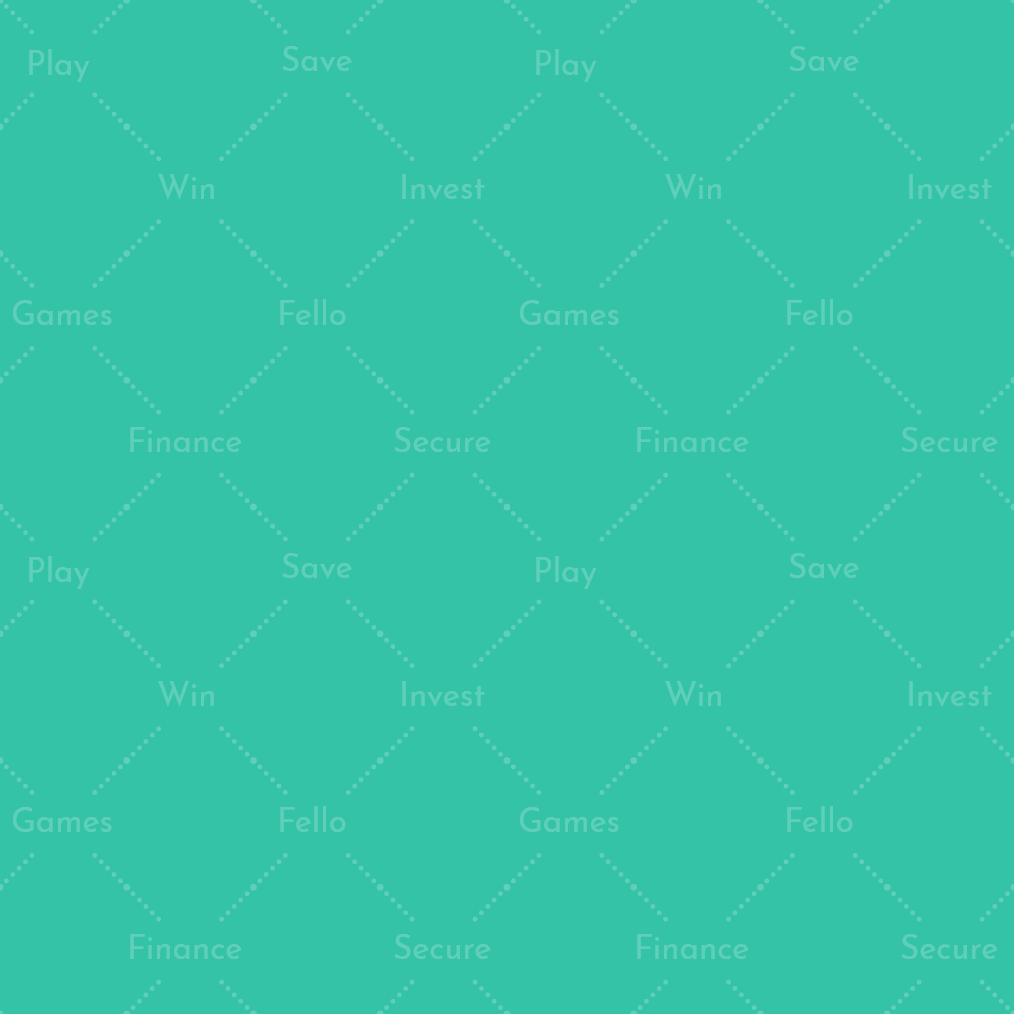
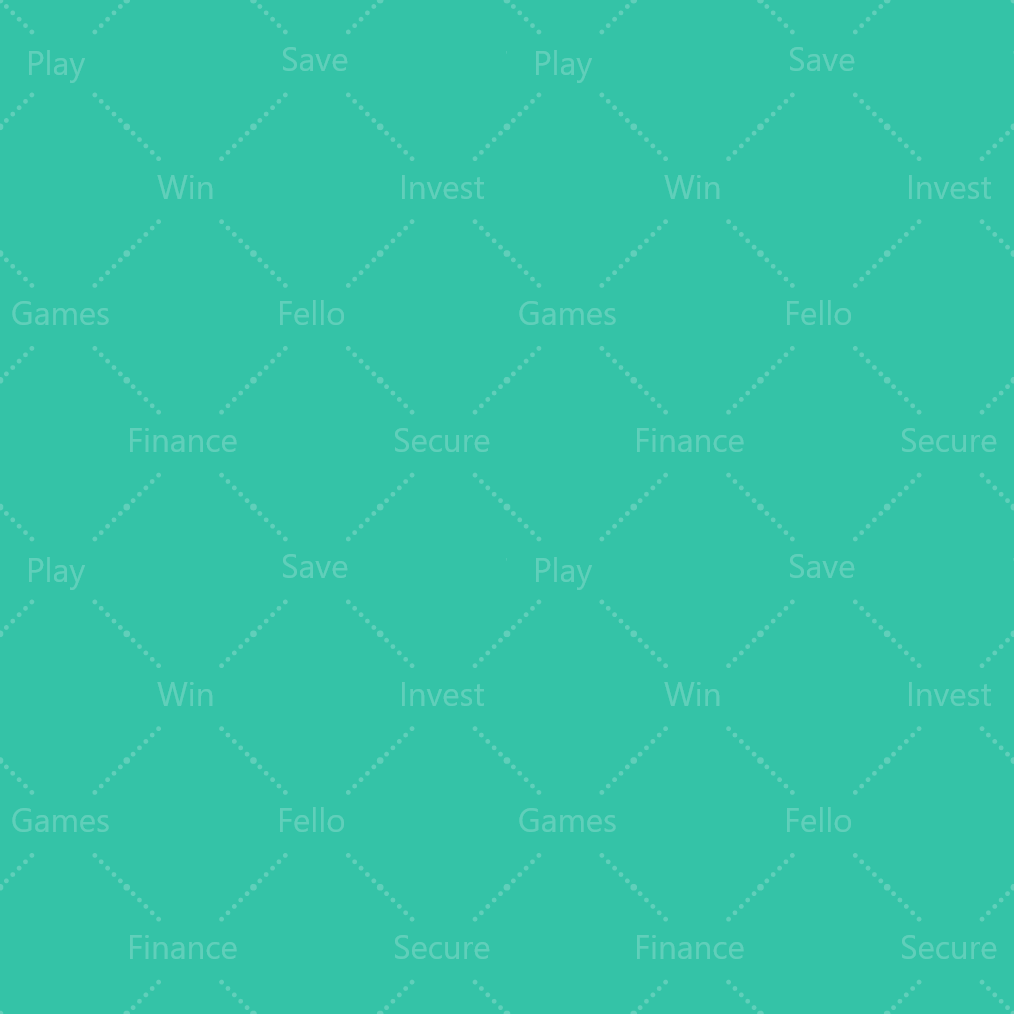
added new confetti

diff --git a/lib/ui/dialogs/Fold-Card/card.dart b/lib/ui/dialogs/Fold-Card/card.dart
@@ -117,7 +117,9 @@ class _TicketState extends State<FCard> {
         // gradient: cardGradient,
         image: DecorationImage(
             image: AssetImage("images/prize-share-bg.png"), fit: BoxFit.cover),
-        borderRadius: BorderRadius.all(Radius.circular(15)),
+        borderRadius: BorderRadius.all(
+          Radius.circular(15),
+        ),
       ),
       child: Stack(
         children: [
@@ -174,7 +176,7 @@ class _TicketState extends State<FCard> {
                 Row(
                   children: [
                     Image.asset(
-                      "images/fello_logo.png",
+                      "images/fello-dark.png",
                       width: SizeConfig.screenWidth * 0.12,
                     ),
                     Spacer(),
@@ -205,7 +207,6 @@ class _TicketState extends State<FCard> {
       height: double.infinity,
       width: double.infinity,
       decoration: BoxDecoration(
-        // gradient: cardGradient,
         image: DecorationImage(
             image: AssetImage("images/prize-share-bg.png"), fit: BoxFit.cover),
         borderRadius: BorderRadius.only(
@@ -221,36 +222,23 @@ class _TicketState extends State<FCard> {
         mainAxisAlignment: MainAxisAlignment.center,
         children: [
           Expanded(
-            child: Stack(
-              children: [
-                Center(
-                  child: Opacity(
-                    opacity: 0.3,
-                    child: Image.asset(
-                      "images/prize-confetti-share.png",
-                      fit: BoxFit.fitHeight,
-                    ),
-                  ),
+            child: Center(
+              child: Text(
+                "र ${widget.unclaimedPrize}",
+                style: GoogleFonts.montserrat(
+                  color: Colors.white,
+                  height: 1.3,
+                  shadows: [
+                    Shadow(
+                      offset: Offset(2, 2),
+                      color: Colors.white30,
+                      blurRadius: 5,
+                    )
+                  ],
+                  fontWeight: FontWeight.w800,
+                  fontSize: SizeConfig.screenWidth * 0.12,
                 ),
-                Center(
-                  child: Text(
-                    "र ${widget.unclaimedPrize}",
-                    style: GoogleFonts.montserrat(
-                      color: Colors.white,
-                      height: 1.3,
-                      shadows: [
-                        Shadow(
-                          offset: Offset(2, 2),
-                          color: Colors.white30,
-                          blurRadius: 5,
-                        )
-                      ],
-                      fontWeight: FontWeight.w800,
-                      fontSize: SizeConfig.screenWidth * 0.12,
-                    ),
-                  ),
-                ),
-              ],
+              ),
             ),
           ),
           SizedBox(
@@ -300,7 +288,6 @@ class _TicketState extends State<FCard> {
       height: double.infinity,
       width: double.infinity,
       decoration: BoxDecoration(
-        // gradient: cardGradient,
         image: DecorationImage(
             image: AssetImage("images/prize-share-bg.png"), fit: BoxFit.cover),
         borderRadius: BorderRadius.only(

diff --git a/lib/ui/dialogs/share-card.dart b/lib/ui/dialogs/share-card.dart
@@ -20,14 +20,14 @@ class ShareCard extends StatelessWidget {
           decoration: BoxDecoration(
             borderRadius: BorderRadius.circular(16),
             image: DecorationImage(
-              image: AssetImage("images/prize-share-bg.png"),
+              image: AssetImage("images/prize-confetti-bg.png"),
               fit: BoxFit.cover,
             ),
           ),
           child: Column(
             children: [
               Image.asset(
-                "images/fello_logo.png",
+                "images/fello-dark.png",
                 height: 40,
               ),
               SizedBox(height: 20),
